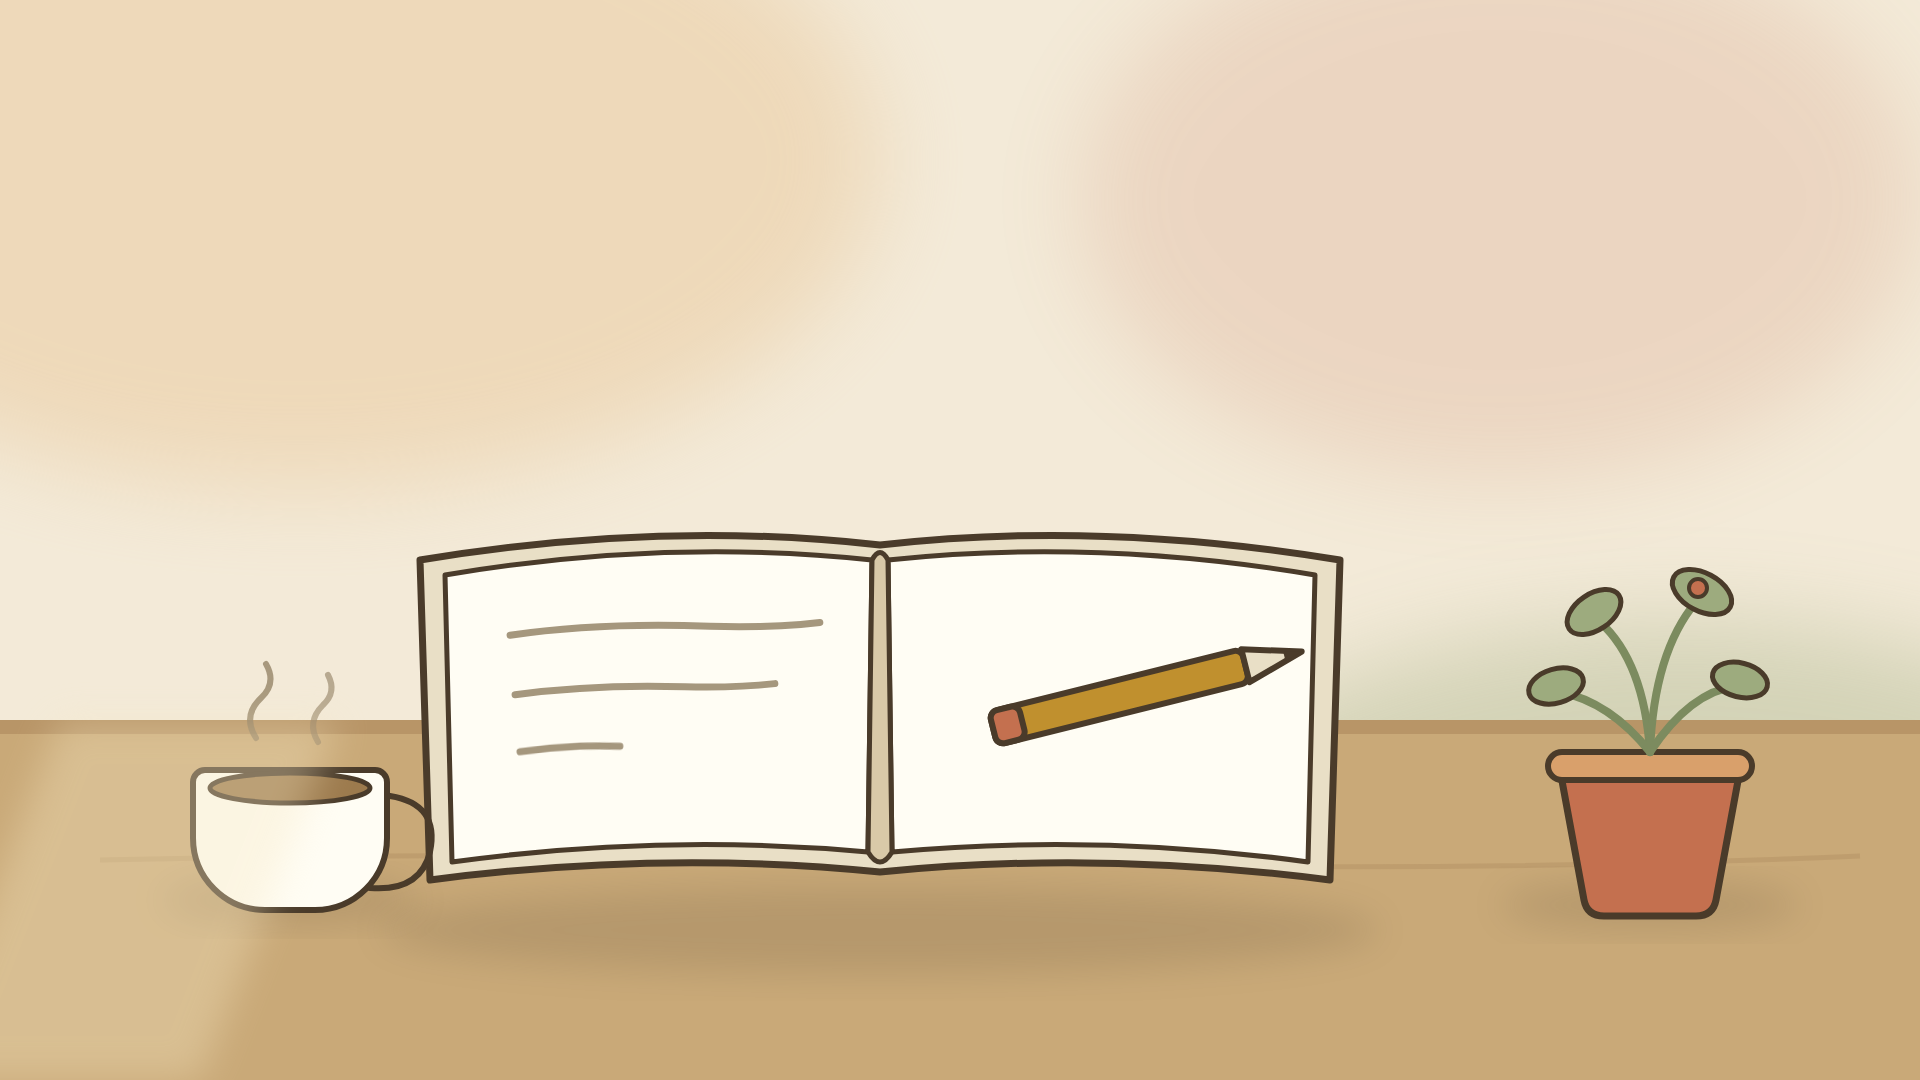
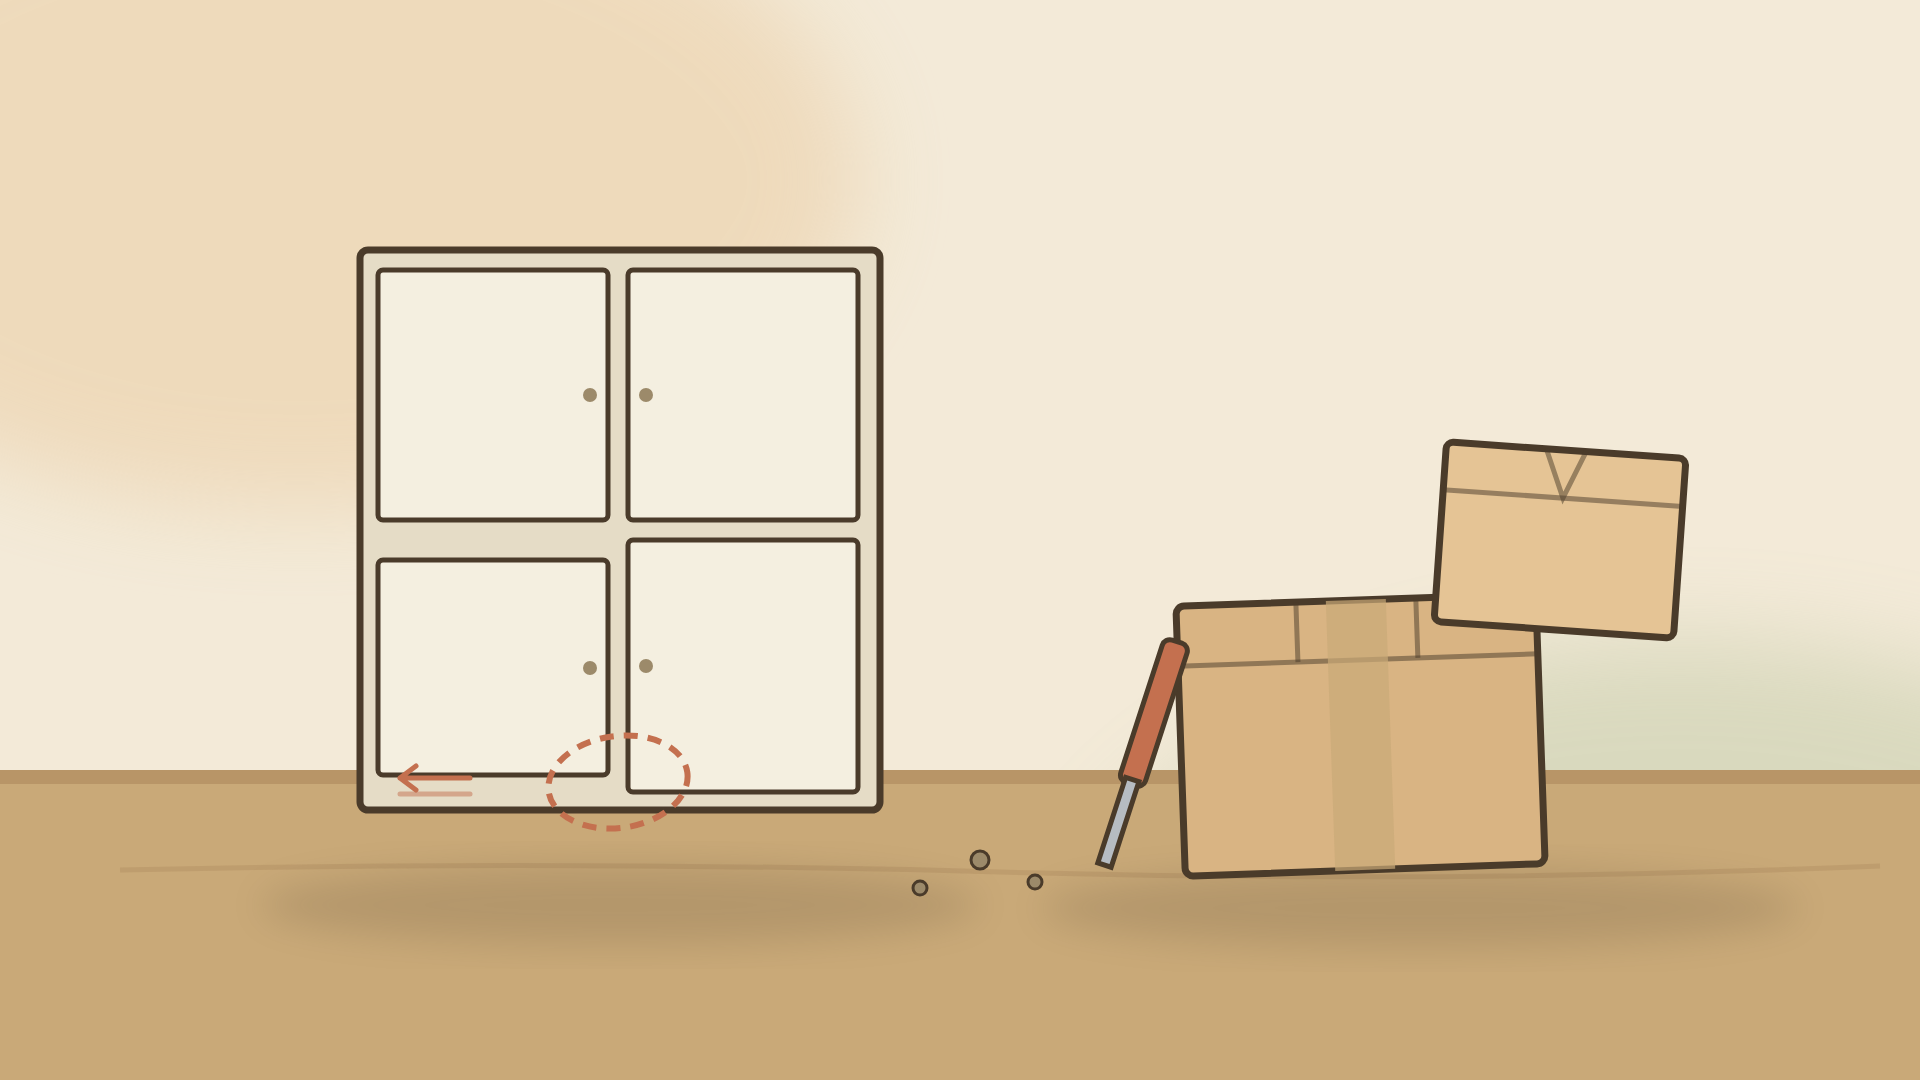
content: rewrite 07/20 journal with real moving-day story + photo

Changed region(s): [[0.0, 0.2139, 1.0, 0.9778]]

diff --git a/posts/2026-07-20-journal.html b/posts/2026-07-20-journal.html
@@ -3,7 +3,7 @@
 <head>
 <meta charset="utf-8">
 <meta name="viewport" content="width=device-width, initial-scale=1">
-<title>小院日誌 07/20：沒什麼事的星期天 · 恬園手記</title>
+<title>小院日誌 07/20：搬家師傅與裝不齊的櫃門 · 恬園手記</title>
 <link rel="stylesheet" href="../style.css">
 </head>
 <body>
@@ -14,18 +14,25 @@
   </div>
 </header>
 <div class="post-cover rise">
-  <div class="frame"><span class="pic"><img src="../images/journal-20260720.png" alt="小院日誌 07/20：沒什麼事的星期天" loading="lazy"></span></div>
+  <div class="frame"><span class="pic"><img src="../images/journal-20260720.png" alt="小院日誌 07/20：搬家師傅與裝不齊的櫃門" loading="lazy"></span></div>
 </div>
 <main class="single rise">
   <div class="head">
     <div class="meta"><span class="badge cat-life">🌿 生活隨筆</span><time>2026-07-20</time></div>
-    <h1 class="post-title">小院日誌 07/20：沒什麼事的星期天</h1>
+    <h1 class="post-title">小院日誌 07/20：搬家師傅與裝不齊的櫃門</h1>
   </div>
   <div class="content">
-<p>昨天才說要把寫日誌的習慣撿回來，第二天就遇到考驗：翻了翻，今天實在沒留下什麼特別要記的。</p>
-<p>想了想還是坐下來寫幾行。習慣這種事，大概就是靠這種沒事也照做的日子撐起來的。兩三行也算數，這是昨天自己講的話，不能隔一天就賴帳。</p>
-<p>晚上照例去 Karpathy 和 Cole Medin 那邊看看，都沒有新片。這兩位本來就不是量產型的，隔好幾週出一支是常態，慢慢等。</p>
-<p>就這樣，短短的也是一篇。</p>
+<p>今天一大早搬家公司就來了。</p>
+<p>要搬的東西事前都跟他們講好了——鞋櫃、書櫃、衣櫃、一張單人床，剩下就是一些零星的生活雜物。照片我也先傳過去，對方看了說沒問題，可以搬。就是因為這句「可以搬」，我才排了今天。</p>
+<p>結果師傅一到現場，看了看那幾個系統櫃，才說這種櫃子不是他們的專長。當下有點傻眼——照片不是早就給了嗎？不過人都來了，他們也還是硬著頭皮開始拆。</p>
+<p>問題就從這裡開始。系統櫃拆裝很吃經驗，門板、鉸鏈、層板的位置都有對應關係，裝回去差一點點，門就對不齊。拆到後來，裝出來的門一扇高一扇低，怎麼喬都喬不平。過程裡難免有些來回，說不上吵架，但那種「你當初不是說可以嗎」的悶，雙方大概都有。</p>
+<p><img src="../images/journal-20260720-photo.jpg" alt="剛裝回去的鞋櫃，下排兩扇門的高低對不齊"></p>
+<p>弄到一個段落，我看門實在喬不平了，就跟他們說算了，維持現況吧，別再拆了。再弄下去櫃子只會更傷。至於那個衣櫃，因為體積太大，最後也沒請他們搬。</p>
+<p>坐下來想，這件事兩邊都有可以更好的地方，但廠商這端我覺得比較關鍵的是兩點。</p>
+<p>第一，做不到的事，一開始就不要答應。照片都看過了還說可以搬，等於把「要不要今天搬」這個決定建立在一個不準的承諾上。</p>
+<p>第二，接單的時候應該主動再確認一次：這裡面有系統櫃，你們的報價和服務有沒有含系統櫃的拆裝？一句話的事，就能省掉現場所有的尷尬。</p>
+<p>當然我自己也學到了。下次找搬家，我不會只丟照片就算數，會白紙黑字把「含系統櫃拆裝」這種關鍵項目寫進去、再口頭確認一遍。有些話覺得對方應該懂，其實不講清楚就是不算數。</p>
+<p>累了一天，櫃子歪歸歪，東西總算是進來了。剩下的慢慢喬。</p>
   </div>
 </main>
 <nav class="post-nav"><a href="2026-07-19-journal.html">較舊：小院日誌 07/19：清電腦如拔草 →</a></nav>

diff --git a/index.html b/index.html
@@ -27,11 +27,11 @@
   <div class="cat-grid"><button class="cat-card" data-cat="研究筆記" type="button"><span class="pic"><img src="images/cat-research.png" alt="研究筆記" loading="lazy"></span><span class="name">研究筆記</span></button><button class="cat-card" data-cat="新家日誌" type="button"><span class="pic"><img src="images/cat-home.png" alt="新家日誌" loading="lazy"></span><span class="name">新家日誌</span></button><button class="cat-card" data-cat="購物誌" type="button"><span class="pic"><img src="images/cat-shop.png" alt="購物誌" loading="lazy"></span><span class="name">購物誌</span></button><button class="cat-card" data-cat="生活隨筆" type="button"><span class="pic"><img src="images/cat-life.png" alt="生活隨筆" loading="lazy"></span><span class="name">生活隨筆</span></button></div>
 </section>
 <section class="feature" data-cat="生活隨筆">
-  <div class="cover"><span class="pic"><img src="images/journal-20260720.png" alt="小院日誌 07/20：沒什麼事的星期天" loading="lazy"></span></div>
+  <div class="cover"><span class="pic"><img src="images/journal-20260720.png" alt="小院日誌 07/20：搬家師傅與裝不齊的櫃門" loading="lazy"></span></div>
   <div class="feature-body">
     <p class="kicker">最 新 一 篇</p>
-    <h2 class="feature-title"><a href="posts/2026-07-20-journal.html">小院日誌 07/20：沒什麼事的星期天</a></h2>
-    <p class="summary">日誌寫到第二天就遇到考驗：一個沒什麼好記的星期天。還是坐下來寫了幾行，習慣就是這樣撐起來的吧。</p>
+    <h2 class="feature-title"><a href="posts/2026-07-20-journal.html">小院日誌 07/20：搬家師傅與裝不齊的櫃門</a></h2>
+    <p class="summary">一大早搬家公司來搬鞋櫃、書櫃、衣櫃和單人床。事前照片都給了、也說可以搬，師傅到場卻說系統櫃不是他們的專長。後面那幾個小時，是一堂關於「事先講清楚」的課。</p>
     <div class="meta"><span class="badge cat-life">🌿 生活隨筆</span><time>2026-07-20</time></div>
     <a class="more" href="posts/2026-07-20-journal.html">翻開這一篇 ⟶</a>
   </div>

diff --git a/posts/2026-07-19-journal.html b/posts/2026-07-19-journal.html
@@ -29,7 +29,7 @@
 <p>晚上照例去看看 Karpathy 和 Cole Medin 有沒有出新片。前陣子把他們的影片整理成〈<a href="2026-07-17-agent-lessons.html">看完 Karpathy 和 Cole Medin，我改了五個用 AI 的習慣</a>〉之後，就養成隔幾天去巡一下的習慣。今天沒有新的。也好，早點睡。</p>
   </div>
 </main>
-<nav class="post-nav"><a href="2026-07-20-journal.html">← 較新：小院日誌 07/20：沒什麼事的星期天</a><a href="2026-07-18-ai-cert-prep.html">較舊：準備 AI 證照，我自己蓋了一套刷題系統 →</a></nav>
+<nav class="post-nav"><a href="2026-07-20-journal.html">← 較新：小院日誌 07/20：搬家師傅與裝不齊的櫃門</a><a href="2026-07-18-ai-cert-prep.html">較舊：準備 AI 證照，我自己蓋了一套刷題系統 →</a></nav>
 <p class="back"><a href="../index.html">⟵ 回到院子</a></p>
 <footer class="site-footer">
   <div class="inner">
